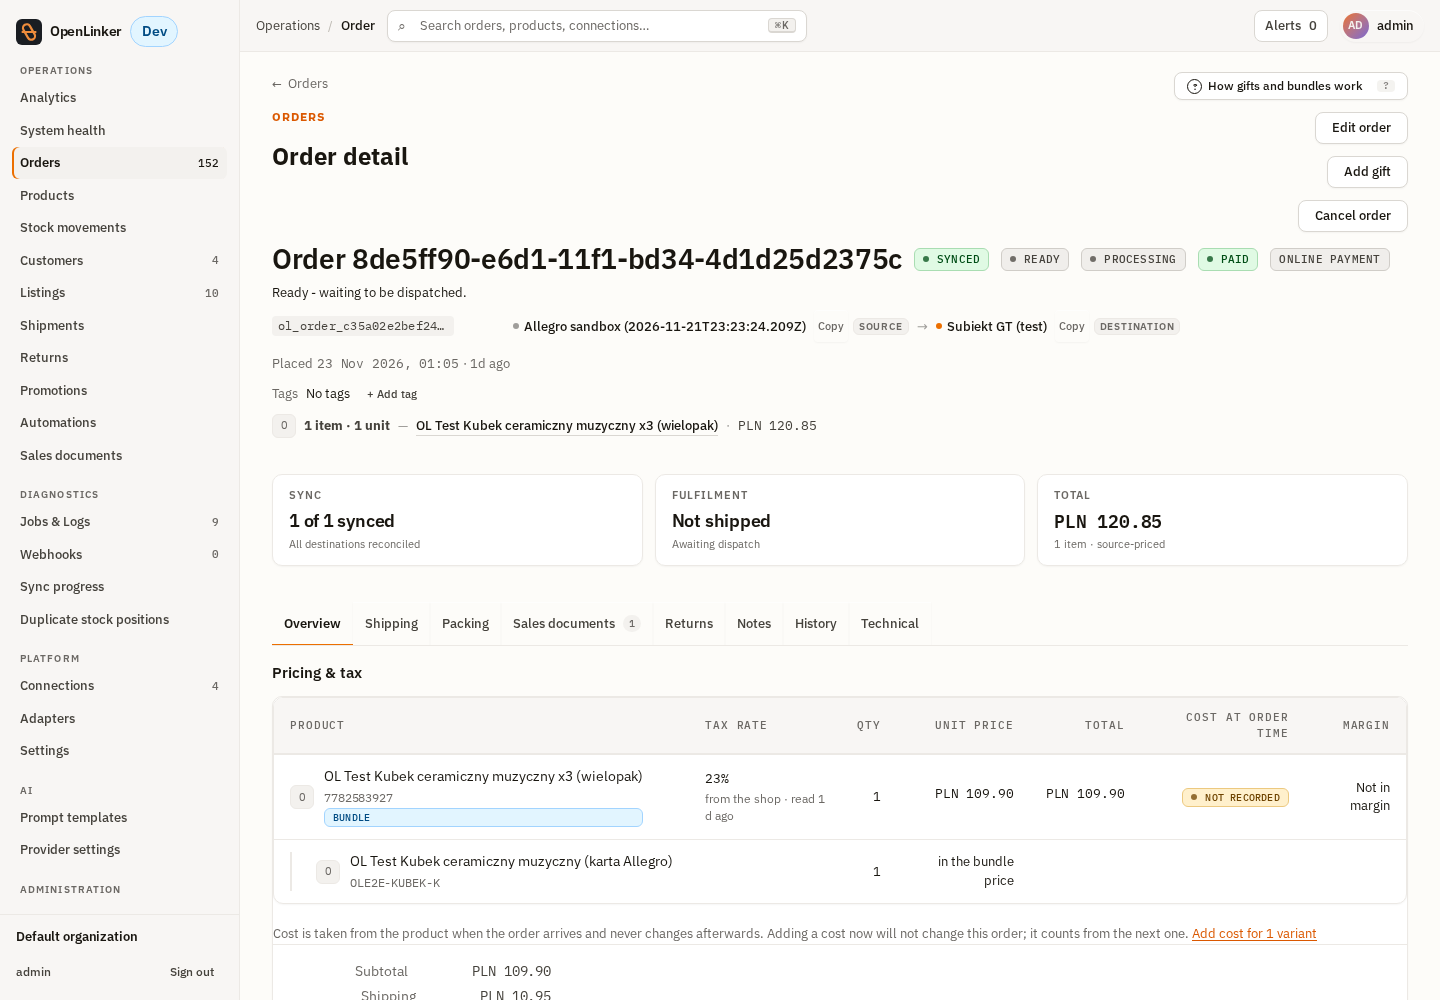
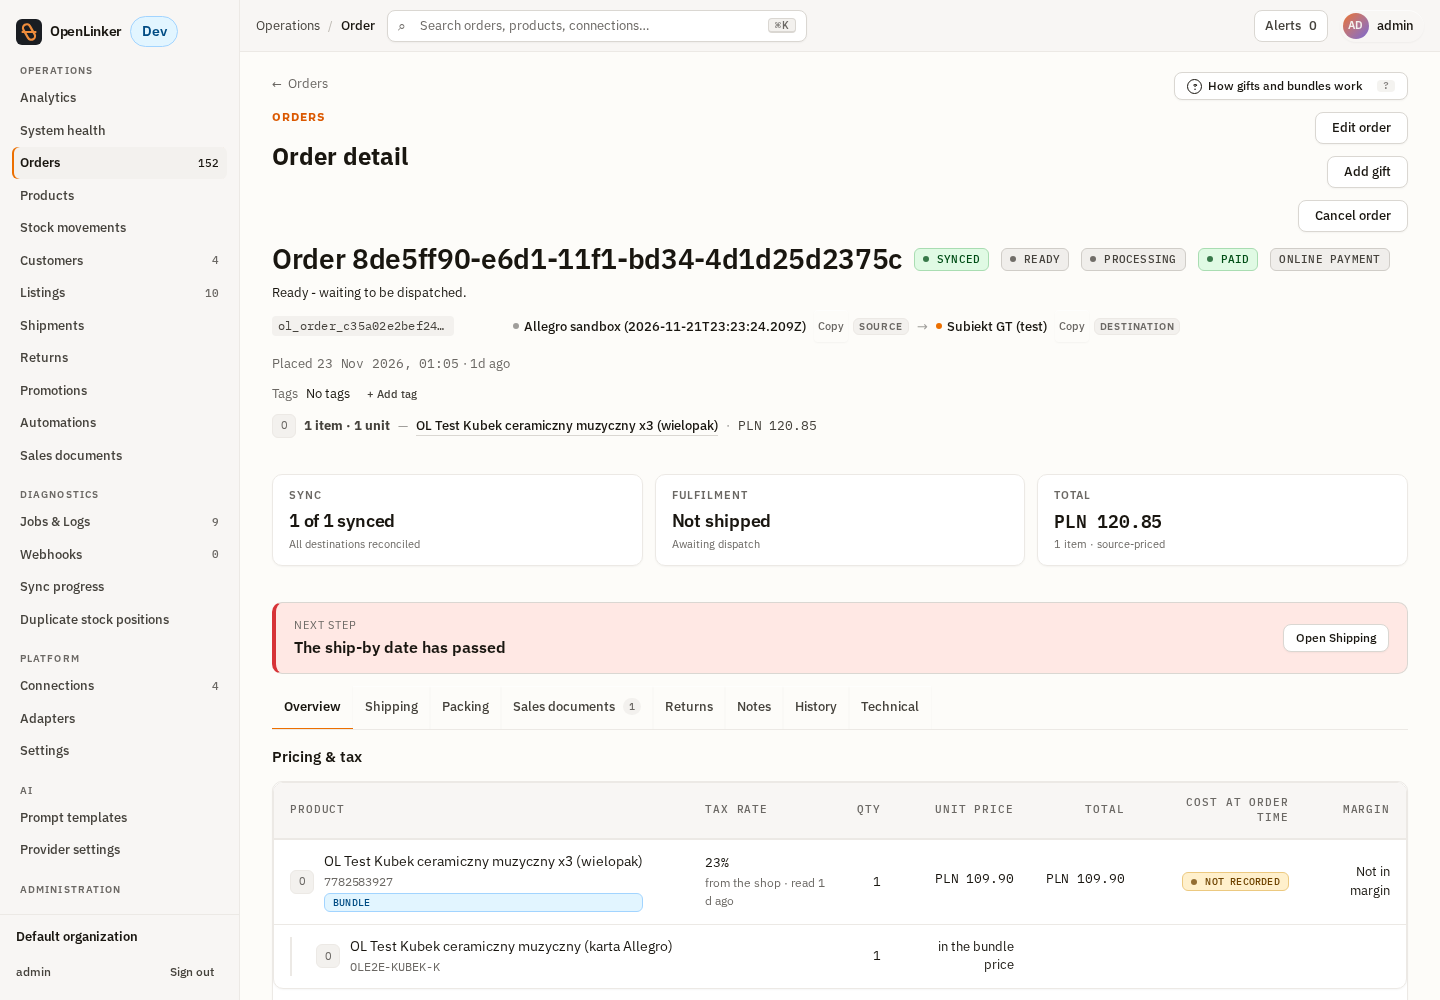
feat(orders): next step card above the order detail tabs
One card names what to look at first (failed destinations, an active hold, a blocked sales document, an overdue ship-by, ready to ship) and opens the tab where the operator acts. It never invents an action and renders nothing when nothing needs attention.

Refs #4286

Claude-Session: https://claude.ai/code/session_01JMBervaMXdCE2di1EPZfgm

diff --git a/apps/web/src/features/orders/lib/order-next-step.ts b/apps/web/src/features/orders/lib/order-next-step.ts
@@ -1,0 +1,70 @@
+/**
+ * Order next step (#4286)
+ *
+ * The one thing an operator should look at first on the order detail page,
+ * derived from facts the page already holds. It names a tab to open and never
+ * invents an action: every step points at a surface that already exists. When
+ * nothing is wrong it returns `null` - the page shows no card rather than a
+ * reassurance, because an unread source would make "all clear" a false claim.
+ *
+ * @module apps/web/src/features/orders/lib
+ */
+import type { OrderDetailTabId } from './order-detail-tabs';
+
+export type OrderNextStepKind =
+  | 'failed-destinations'
+  | 'on-hold'
+  | 'document-blocked'
+  | 'ship-by-overdue'
+  | 'ready-to-ship';
+
+export type OrderNextStepTone = 'error' | 'warning' | 'info';
+
+export interface OrderNextStep {
+  kind: OrderNextStepKind;
+  tone: OrderNextStepTone;
+  /** The tab that holds the surface to act in. */
+  tab: OrderDetailTabId;
+  /** Interpolation value for the copy (a count or a reason label). */
+  value?: string | number;
+}
+
+export interface OrderNextStepInput {
+  cancelled: boolean;
+  failedDestinationCount: number;
+  activeHoldLabel: string | null;
+  /** An attention-worthy persisted sales-document block (not a manual-trigger one). */
+  documentBlocked: boolean;
+  shipByOverdue: boolean;
+  /** Fulfilment state from the shipments read; `unavailable` and `dispatched` etc. never prompt. */
+  fulfillment: 'not-shipped' | 'dispatched' | 'delivered' | 'failed' | 'unavailable';
+}
+
+/** Highest priority first; the first match wins. */
+export function deriveOrderNextStep(input: OrderNextStepInput): OrderNextStep | null {
+  if (input.failedDestinationCount > 0) {
+    return {
+      kind: 'failed-destinations',
+      tone: 'error',
+      tab: 'technical',
+      value: input.failedDestinationCount,
+    };
+  }
+  if (input.activeHoldLabel !== null) {
+    return { kind: 'on-hold', tone: 'warning', tab: 'packing', value: input.activeHoldLabel };
+  }
+  if (input.documentBlocked) {
+    return { kind: 'document-blocked', tone: 'warning', tab: 'documents' };
+  }
+  if (input.cancelled) return null;
+  if (input.shipByOverdue && input.fulfillment === 'not-shipped') {
+    return { kind: 'ship-by-overdue', tone: 'error', tab: 'shipping' };
+  }
+  if (input.fulfillment === 'failed') {
+    return { kind: 'ready-to-ship', tone: 'warning', tab: 'shipping' };
+  }
+  if (input.fulfillment === 'not-shipped') {
+    return { kind: 'ready-to-ship', tone: 'info', tab: 'shipping' };
+  }
+  return null;
+}

diff --git a/apps/web/src/pages/orders/order-detail-page.tsx b/apps/web/src/pages/orders/order-detail-page.tsx
@@ -22,6 +22,9 @@ import { StockAtRiskCallout } from '../../features/orders/components/stock-at-ri
 import { LoadingState, ErrorState } from '../../shared/ui/feedback-state';
 import { Button } from '../../shared/ui/button';
 import { Tabs, TabsContent } from '../../shared/ui/tabs';
+import { OrderNextStepCard } from '../../features/orders/components/order-next-step-card';
+import { deriveOrderNextStep } from '../../features/orders/lib/order-next-step';
+import { holdReasonLabel } from '../../features/orders/lib/order-hold.types';
 import { OrderDetailTabList, type OrderDetailTabEntry } from '../../features/orders/components/order-detail-tab-list';
 import {
   DEFAULT_ORDER_DETAIL_TAB,
@@ -628,6 +631,30 @@ export function OrderDetailPage(): ReactElement {
     { id: 'technical', label: copy.tabs.technical, count: failedDestinations.length + snapshot.parseWarnings.length },
   ];
 
+  const nextStep = deriveOrderNextStep({
+    cancelled: snapshot.status === 'cancelled',
+    failedDestinationCount: failedDestinations.length,
+    activeHoldLabel: order.activeHold ? holdReasonLabel(order.activeHold.reason) : null,
+    // A manual-trigger block is the configured workflow, not a problem, and an
+    // existing document supersedes the block (same reading as the orders list).
+    documentBlocked:
+      order.salesDocumentBlockReason != null &&
+      order.salesDocumentBlockReason !== 'trigger-model-manual' &&
+      order.salesDocument?.document == null,
+    shipByOverdue: shipByView?.level === 'overdue',
+    fulfillment,
+  });
+  const tabLabels: Record<OrderDetailTabId, string> = {
+    overview: copy.tabs.overview,
+    shipping: copy.tabs.shipping,
+    packing: copy.tabs.packing,
+    documents: copy.tabs.documents,
+    returns: copy.tabs.returns,
+    notes: copy.tabs.notes,
+    history: copy.tabs.history,
+    technical: copy.tabs.technical,
+  };
+
   return (
     <PageLayout
       // Close the loop back to wherever the operator came from (#1905): a
@@ -868,6 +895,10 @@ export function OrderDetailPage(): ReactElement {
         }
         onAddGift={canAddGift ? () => setGiftDialogOpen(true) : undefined}
       />
+
+      {nextStep ? (
+        <OrderNextStepCard step={nextStep} tabLabels={tabLabels} onOpenTab={handleTabChange} />
+      ) : null}
 
       <Tabs value={activeTab} onValueChange={handleTabChange}>
         <OrderDetailTabList ariaLabel={copy.tabs.ariaLabel} tabs={tabEntries} />

diff --git a/apps/web/src/features/orders/components/order-next-step-card.tsx b/apps/web/src/features/orders/components/order-next-step-card.tsx
@@ -1,0 +1,52 @@
+/**
+ * Order next step card (#4286)
+ *
+ * One card above the tabs that says what to look at first and opens the tab
+ * where the operator acts. Presentation only: the step comes from
+ * `deriveOrderNextStep`, the action only switches tab.
+ *
+ * @module apps/web/src/features/orders/components
+ */
+import type { ReactElement } from 'react';
+import { interpolate, useMessages, usePlural } from '../../../shared/i18n';
+import type { OrderNextStep } from '../lib/order-next-step';
+import type { OrderDetailTabId } from '../lib/order-detail-tabs';
+
+export function OrderNextStepCard({
+  step,
+  tabLabels,
+  onOpenTab,
+}: {
+  step: OrderNextStep;
+  tabLabels: Readonly<Record<OrderDetailTabId, string>>;
+  onOpenTab: (tab: OrderDetailTabId) => void;
+}): ReactElement {
+  const copy = useMessages('orders').orderDetailPage.nextStep;
+  const plural = usePlural();
+  const title =
+    step.kind === 'failed-destinations'
+      ? plural(Number(step.value ?? 0), copy.failedDestinations)
+      : step.kind === 'on-hold'
+        ? interpolate(copy.onHold, { reason: String(step.value ?? '') })
+        : copy[step.kind === 'document-blocked' ? 'documentBlocked' : step.kind === 'ship-by-overdue' ? 'shipByOverdue' : 'readyToShip'];
+  return (
+    <section
+      className={`order-next-step order-next-step--${step.tone}`}
+      aria-label={copy.label}
+      data-testid="order-next-step"
+      data-kind={step.kind}
+    >
+      <div className="order-next-step__text">
+        <span className="order-next-step__eyebrow">{copy.label}</span>
+        <strong className="order-next-step__title">{title}</strong>
+      </div>
+      <button
+        type="button"
+        className="button button--secondary button--sm"
+        onClick={() => { onOpenTab(step.tab); }}
+      >
+        {interpolate(copy.open, { tab: tabLabels[step.tab] })}
+      </button>
+    </section>
+  );
+}

diff --git a/apps/web/src/features/orders/lib/order-next-step.test.ts b/apps/web/src/features/orders/lib/order-next-step.test.ts
@@ -1,0 +1,34 @@
+import { describe, expect, it } from 'vitest';
+import { deriveOrderNextStep, type OrderNextStepInput } from './order-next-step';
+
+const quiet: OrderNextStepInput = {
+  cancelled: false,
+  failedDestinationCount: 0,
+  activeHoldLabel: null,
+  documentBlocked: false,
+  shipByOverdue: false,
+  fulfillment: 'delivered',
+};
+
+describe('deriveOrderNextStep', () => {
+  it('should return null when nothing needs the operator', () => {
+    expect(deriveOrderNextStep(quiet)).toBeNull();
+  });
+  it('should put failed destinations before everything else', () => {
+    const step = deriveOrderNextStep({ ...quiet, failedDestinationCount: 2, activeHoldLabel: 'Fraud check', fulfillment: 'not-shipped' });
+    expect(step).toMatchObject({ kind: 'failed-destinations', tone: 'error', tab: 'technical', value: 2 });
+  });
+  it('should point a hold at the Packing tab with its reason', () => {
+    expect(deriveOrderNextStep({ ...quiet, activeHoldLabel: 'Fraud check' })).toMatchObject({ kind: 'on-hold', tab: 'packing', value: 'Fraud check' });
+  });
+  it('should treat an overdue ship-by as an error only while nothing shipped', () => {
+    expect(deriveOrderNextStep({ ...quiet, shipByOverdue: true, fulfillment: 'not-shipped' })).toMatchObject({ kind: 'ship-by-overdue', tone: 'error' });
+    expect(deriveOrderNextStep({ ...quiet, shipByOverdue: true, fulfillment: 'dispatched' })).toBeNull();
+  });
+  it('should not prompt to ship a cancelled order', () => {
+    expect(deriveOrderNextStep({ ...quiet, cancelled: true, fulfillment: 'not-shipped' })).toBeNull();
+  });
+  it('should not prompt when shipping is not available on any connection', () => {
+    expect(deriveOrderNextStep({ ...quiet, fulfillment: 'unavailable' })).toBeNull();
+  });
+});

diff --git a/apps/web/src/index.css b/apps/web/src/index.css
@@ -40308,3 +40308,13 @@ tr:hover .pm-move,tr:focus-within .pm-move{opacity:1}
 .order-detail__tab { display: flex; flex-direction: column; gap: 18px; min-width: 0; }
 .order-detail__tab-list { overflow-x: auto; scrollbar-width: thin; }
 .order-detail__tab-list .tabs__trigger { white-space: nowrap; min-height: 44px; }
+
+/* Order detail next-step card (#4286) */
+.order-next-step { display: flex; align-items: center; justify-content: space-between; gap: 16px; flex-wrap: wrap; padding: 14px 18px; border: 1px solid var(--border-default); border-left-width: 4px; border-radius: var(--radius-lg); background: var(--bg-shell); }
+.order-next-step--error { border-left-color: var(--status-error); background: var(--status-error-soft); }
+.order-next-step--warning { border-left-color: var(--status-warning); background: var(--status-warning-soft); }
+.order-next-step--info { border-left-color: var(--status-info); background: var(--status-info-soft); }
+.order-next-step__text { display: flex; flex-direction: column; gap: 2px; min-width: 0; }
+.order-next-step__eyebrow { font-size: 0.6875rem; letter-spacing: 0.08em; text-transform: uppercase; color: var(--text-muted); }
+.order-next-step__title { font-size: 1rem; font-weight: 600; overflow-wrap: anywhere; }
+@media (max-width: 640px) { .order-next-step .button { min-height: 44px; width: 100%; } }
